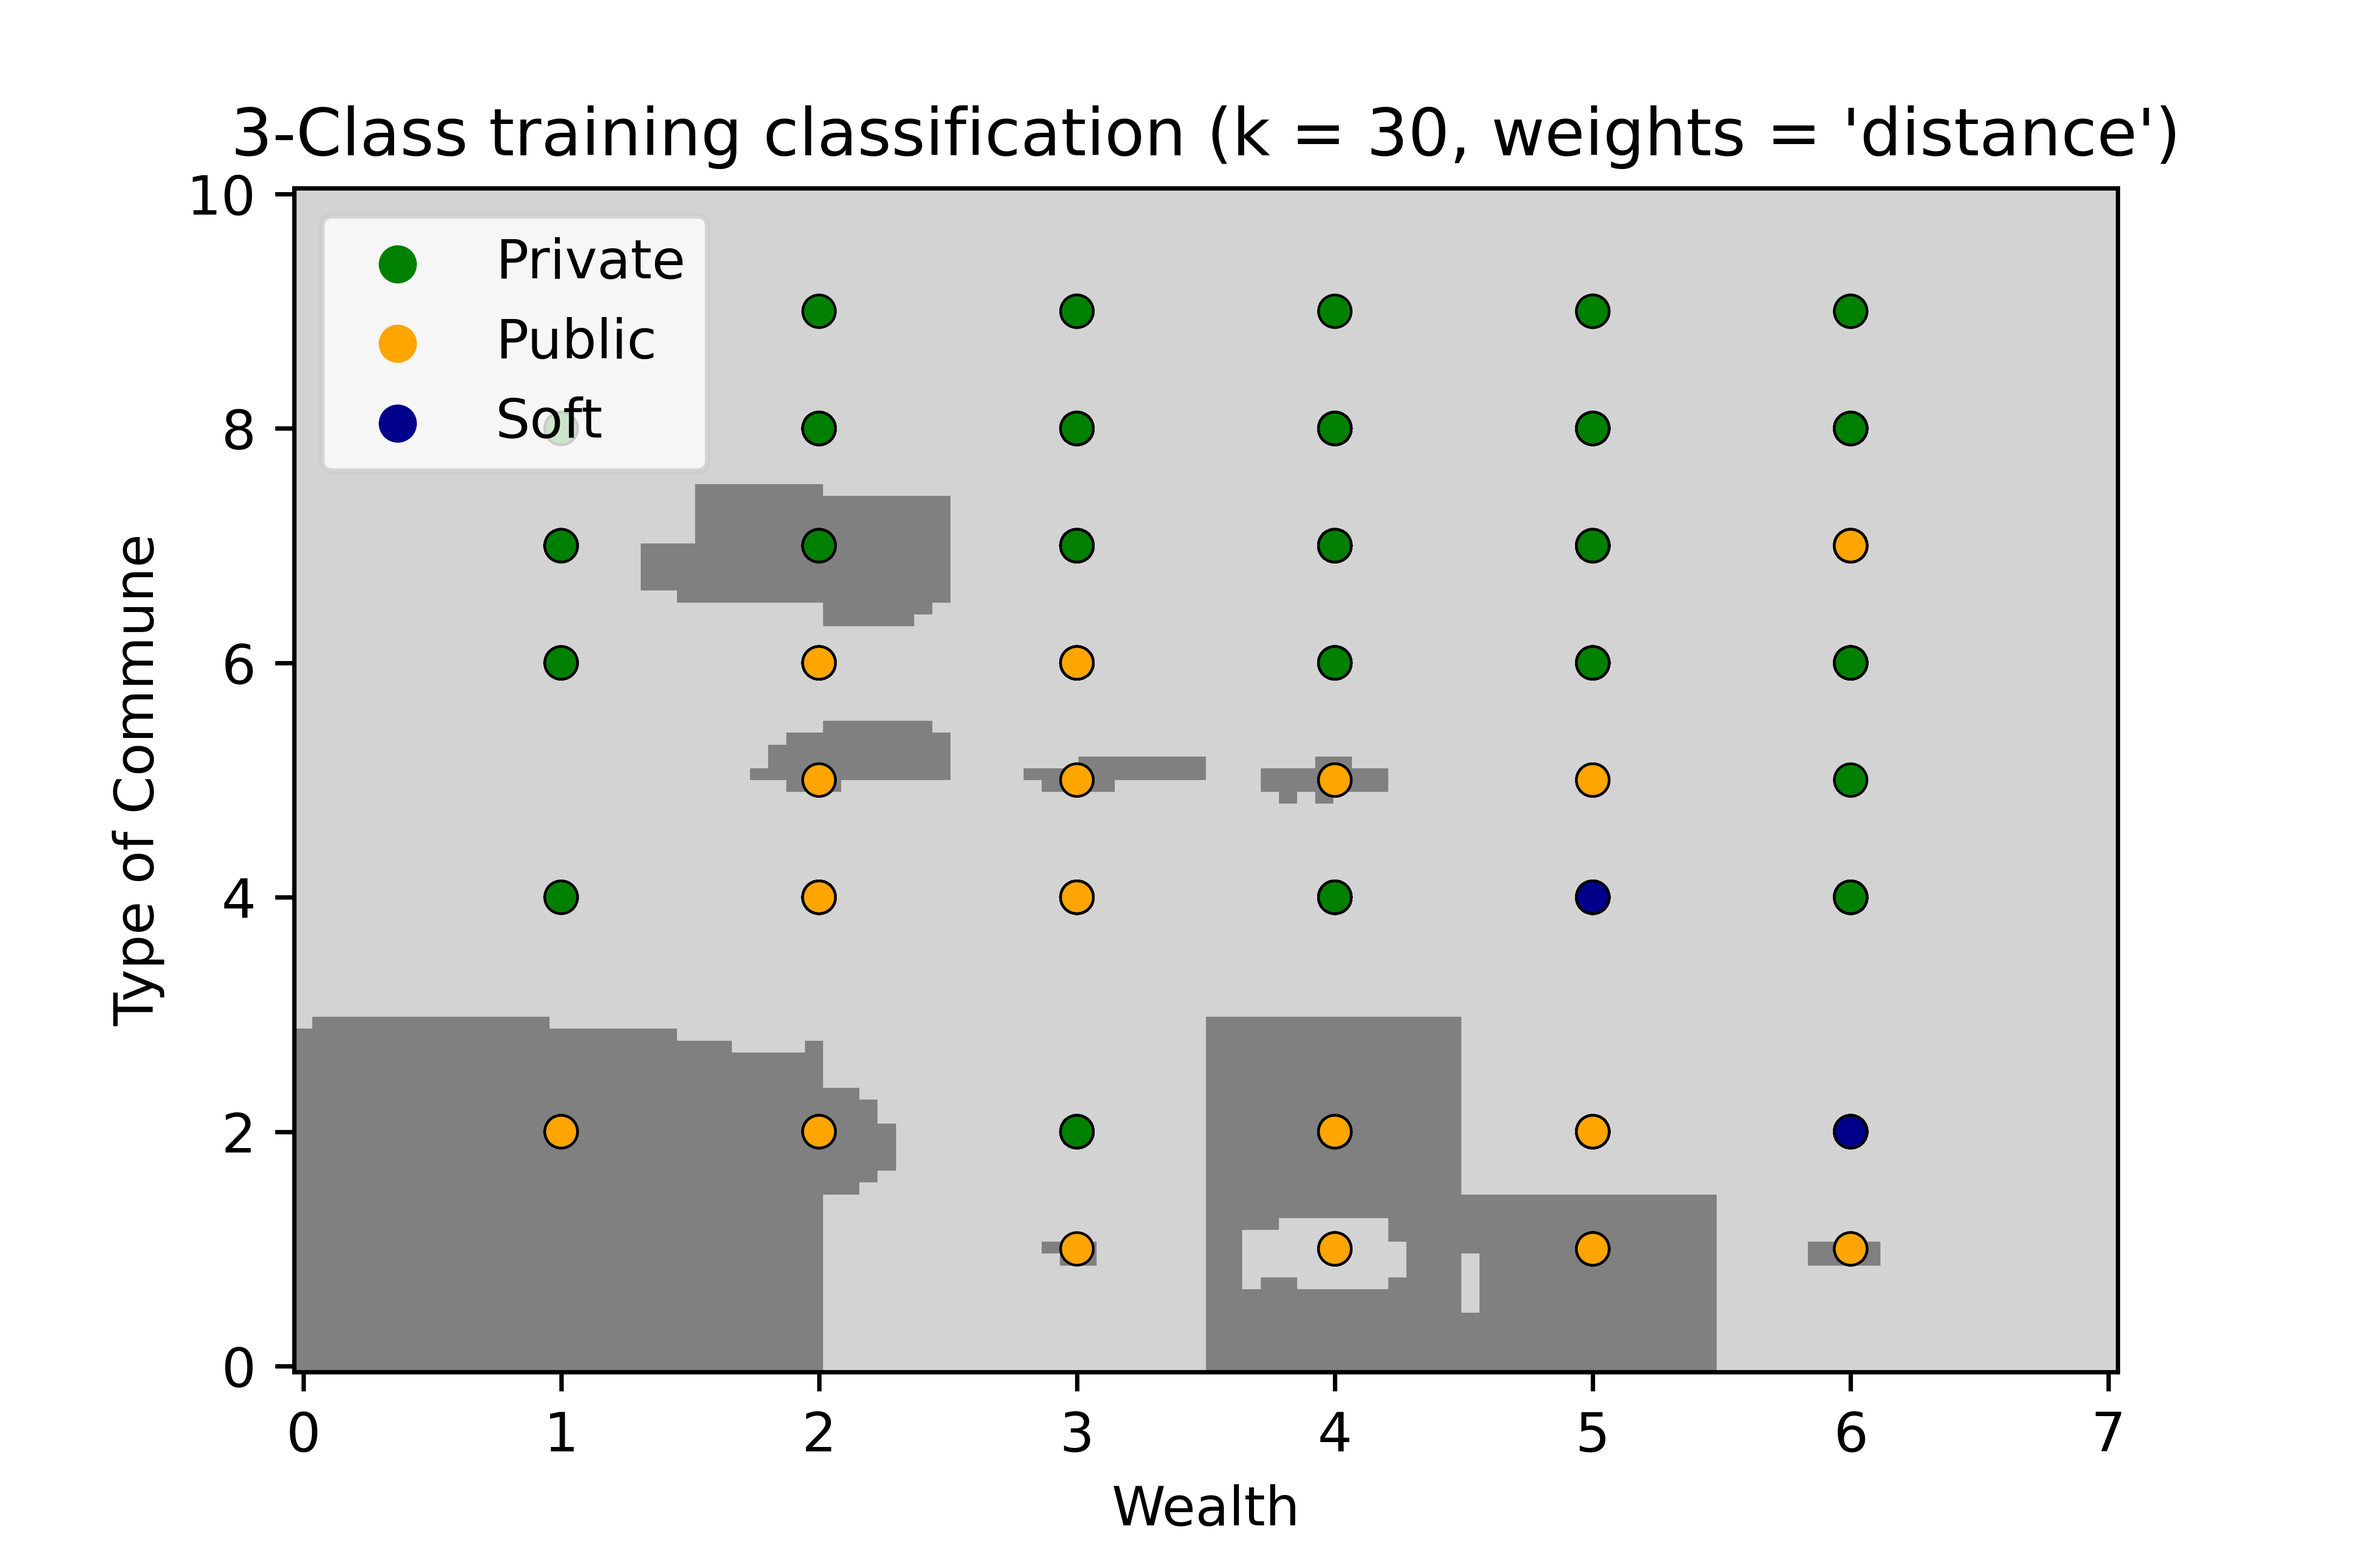
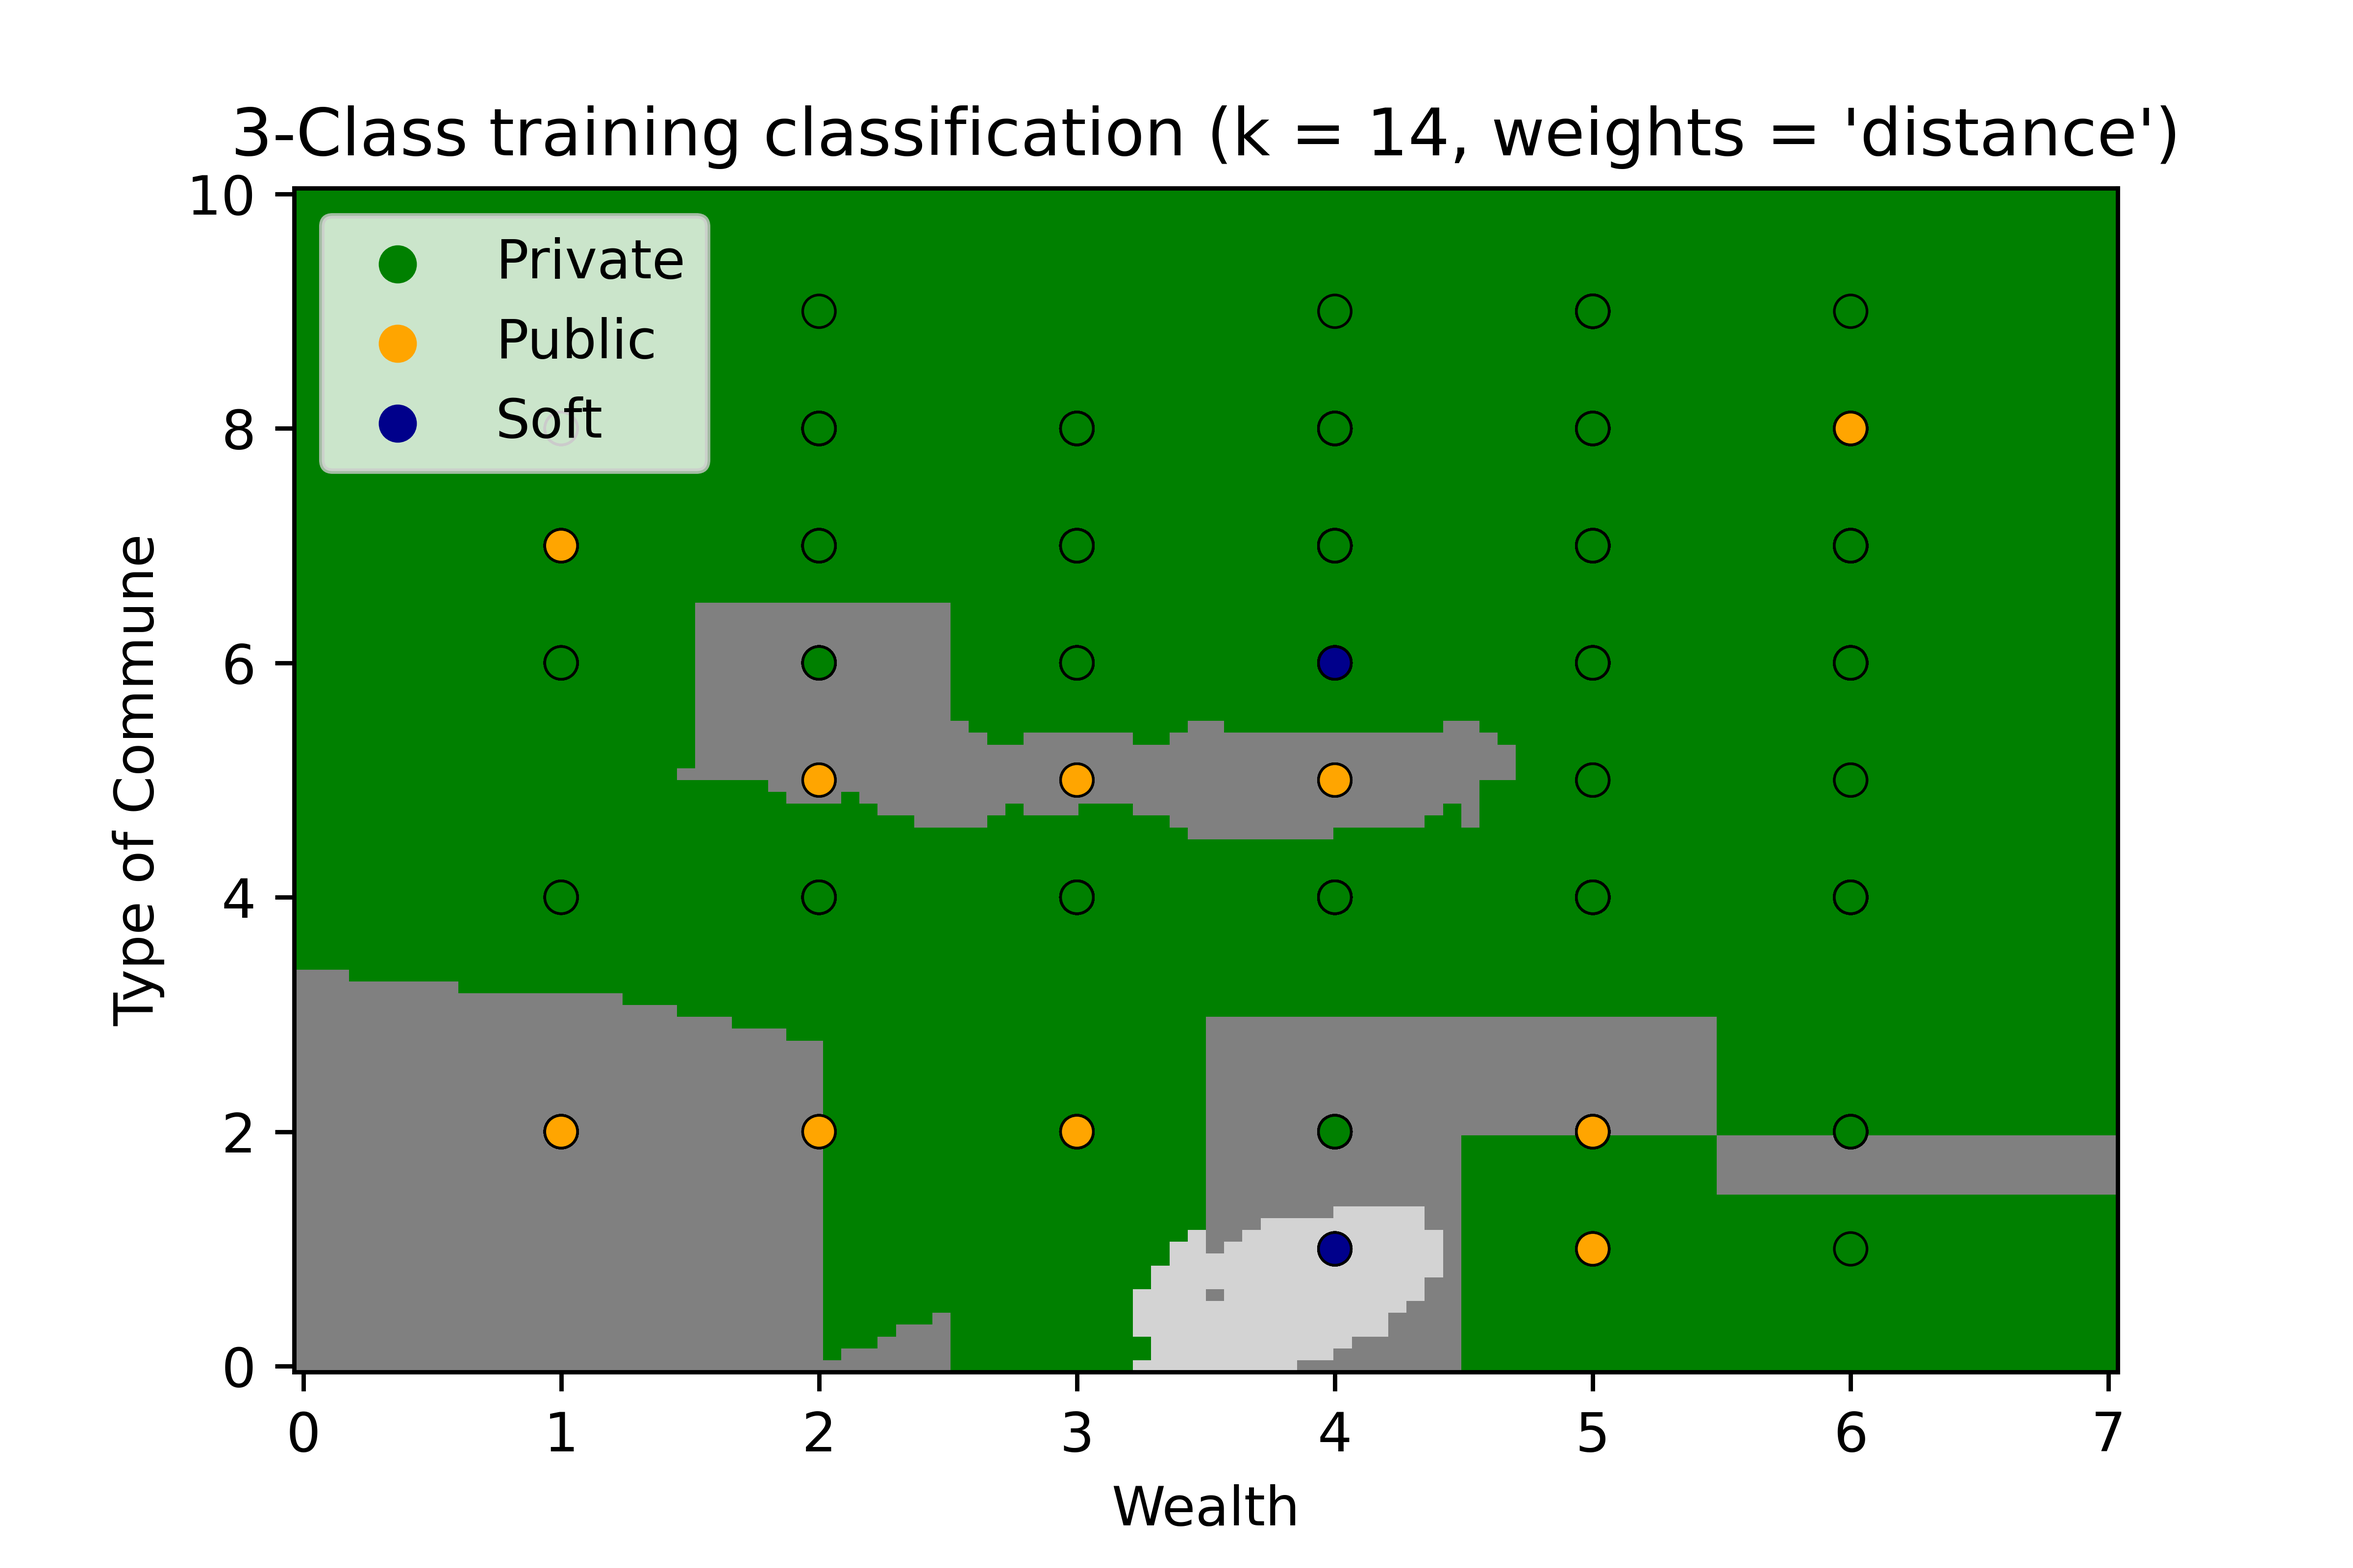
updated to highest neighbors

diff --git a/Subquestion_1.py b/Subquestion_1.py
@@ -291,7 +291,7 @@ df_train,df_test = train_test_split(df_1,test_size=0.3,random_state = 1)
 
 # ------------ STEP 3: Apply Maching Learning ------------
 #Multi-Clustering Code
-n_neighbors = 30
+n_neighbors = 15
 
 # # we only take the first two features. We could avoid this ugly
 # # slicing by using a two-dim dataset
@@ -302,43 +302,43 @@ Y_train = df_train['PM'].to_numpy()
 X_test = df_test[['Income','TC']].to_numpy()
 Y_test = df_test['PM'].to_numpy()
 
-# Create color maps
-cmap_light = ListedColormap(["grey", "green", "lightgrey"])
-cmap_bold = ["green", "orange", "darkblue"]
+# # Create color maps
+# cmap_light = ListedColormap(["grey", "green", "lightgrey"])
+# cmap_bold = ["green", "orange", "darkblue"]
 
-for weights in ["uniform", "distance"]:
-    # we create an instance of Neighbours Classifier and fit the data.
-    clf = neighbors.KNeighborsClassifier(n_neighbors, weights=weights)
-    clf.fit(X_train, Y_train)
+# for weights in ["uniform", "distance"]:
+#     # we create an instance of Neighbours Classifier and fit the data.
+#     clf = neighbors.KNeighborsClassifier(n_neighbors, weights=weights)
+#     clf.fit(X_train, Y_train)
 
-    _, ax = plt.subplots()
-    DecisionBoundaryDisplay.from_estimator(
-        clf,
-        X_train,
-        cmap=cmap_light,
-        ax=ax,
-        response_method="predict",
-        plot_method="pcolormesh",
-        xlabel='Wealth',
-        ylabel='Type of Commune',
-        shading="auto",
-    )
+#     _, ax = plt.subplots()
+#     DecisionBoundaryDisplay.from_estimator(
+#         clf,
+#         X_train,
+#         cmap=cmap_light,
+#         ax=ax,
+#         response_method="predict",
+#         plot_method="pcolormesh",
+#         xlabel='Wealth',
+#         ylabel='Type of Commune',
+#         shading="auto",
+#     )
 
-    # Plot also the training points
-    sns.scatterplot(
-        x=X_train[:, 0],
-        y=X_train[:, 1],
-        hue=df_train['Label'].to_numpy(),
-        palette=cmap_bold,
-        alpha=1.0,
-        edgecolor="black",
-    )
-    plt.title(
-        "3-Class training classification (k = %i, weights = '%s')" % (n_neighbors, weights)
-    )
+#     # Plot also the training points
+#     sns.scatterplot(
+#         x=X_train[:, 0],
+#         y=X_train[:, 1],
+#         hue=df_train['Label'].to_numpy(),
+#         palette=cmap_bold,
+#         alpha=1.0,
+#         edgecolor="black",
+#     )
+#     plt.title(
+#         "3-Class training classification (k = %i, weights = '%s')" % (n_neighbors, weights)
+#     )
     
-    plt.savefig(("q1_train (weights = '%s')" % (weights)), dpi=800)
-    plt.show()
+#     plt.savefig(("q1_train (weights = '%s')" % (weights)), dpi=800)
+#     plt.show()
     
 
 # Create color maps

diff --git a/Subquestion_2.py b/Subquestion_2.py
@@ -112,7 +112,7 @@ import seaborn as sns
 
 df_2 = Data_Prep.df_final
 
-n_neighbors = 10
+n_neighbors = 15
 
 #splitting dataset into train, validation and test data
 #X_train,X_test,Y_train,Y_test = train_test_split(X,y,test_size=0.3,random_state = 1)
